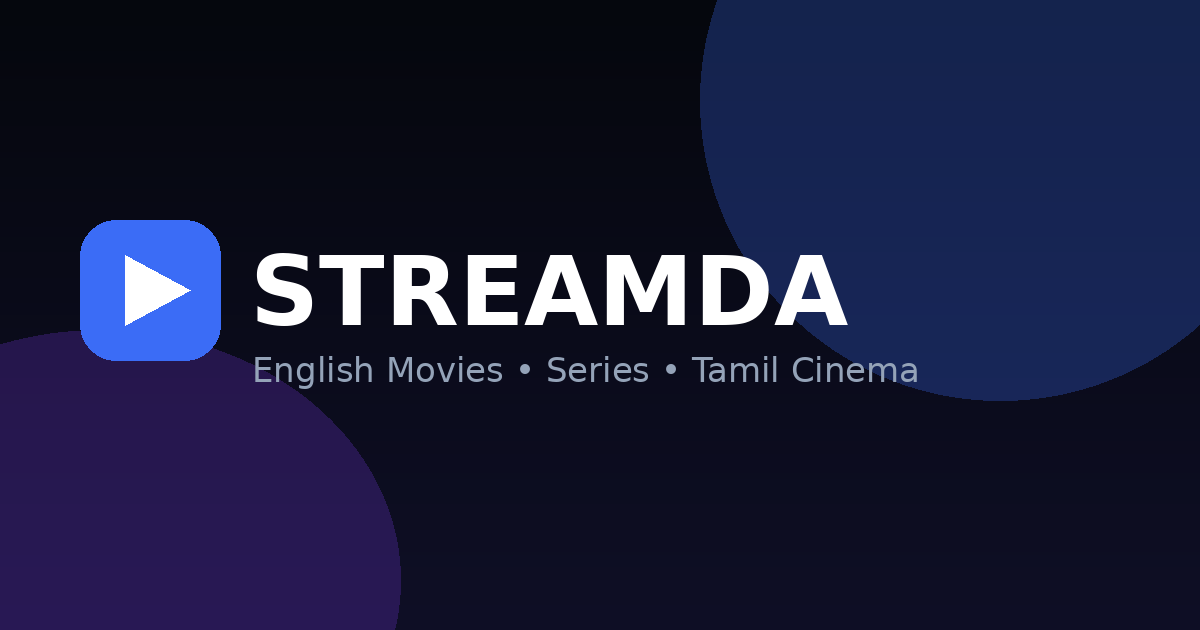
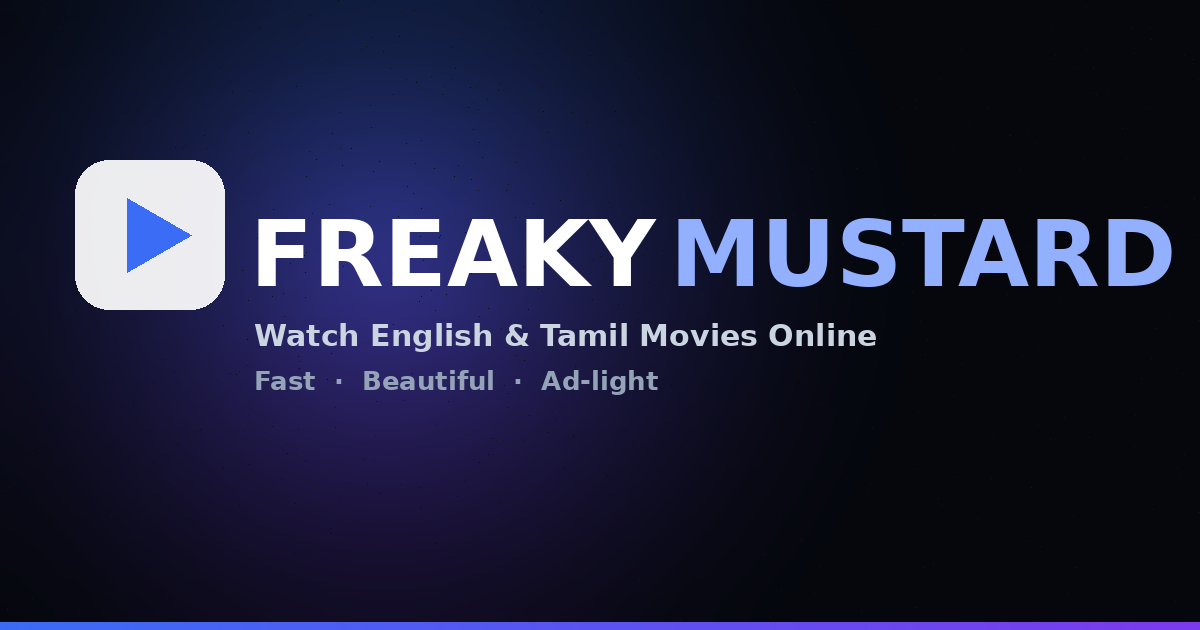
Rebrand Streamda -> FreakyMustard
- All visible labels, page titles, meta/OG/twitter tags, PWA manifest,
  service worker, package name, README.
- localStorage namespace streamda:v2: -> freakymustard:v2: with an
  automatic migration so existing watchlists/progress survive.
- Renamed api/streamdaProxy.js -> api/directProxy.js (VITE_STREAMDA_PROXY
  still honoured for backward compat; VITE_DIRECT_PROXY preferred).
- Regenerated og-cover.png with the new wordmark.
- Sidebar/hero wordmark now FREAKYMUSTARD.

diff --git a/src/pages/WatchEnglish.jsx b/src/pages/WatchEnglish.jsx
@@ -13,7 +13,7 @@ import {
   Loader2,
 } from 'lucide-react';
 import { getDetails } from '../api/englishApi';
-import { resolveDirect } from '../api/streamdaProxy';
+import { resolveDirect } from '../api/directProxy';
 import { useApp } from '../context/AppContext';
 import { usePageMeta } from '../hooks';
 import { cleanTitle } from '../lib/format';
@@ -28,7 +28,7 @@ import { ErrorState, EmptyState } from '../components/ui/States';
  * English watch page (movie or series).
  *
  * Playback sources, in priority order:
- *  1. Streamda ✦ Direct — our own ad-free HLS proxy (hls.js player, real
+ *  1. FreakyMustard ✦ Direct — our own ad-free HLS proxy (hls.js player, real
  *     progress tracking + resume). Resolved asynchronously; if it's slow or
  *     fails, embed servers keep working exactly as before.
  *  2. Third-party embed servers (VidLink, backend providers) — unchanged.
@@ -59,7 +59,7 @@ export default function WatchEnglish() {
   const [selectedSeason, setSelectedSeason] = useState(1);
   const [selectedEpisode, setSelectedEpisode] = useState(null);
 
-  // Streamda Direct (our own HLS proxy) resolution state.
+  // FreakyMustard Direct (our own HLS proxy) resolution state.
   const [directSources, setDirectSources] = useState([]);
   const [directLoading, setDirectLoading] = useState(false);
   const [directError, setDirectError] = useState(null);
@@ -68,7 +68,7 @@ export default function WatchEnglish() {
   // already playing — they can still pick Direct manually.
   const [directIsDefault, setDirectIsDefault] = useState(false);
 
-  usePageMeta(details ? `${cleanTitle(details.title)} — Streamda` : 'Watching — Streamda');
+  usePageMeta(details ? `${cleanTitle(details.title)} — FreakyMustard` : 'Watching — FreakyMustard');
 
   // Pop-up defence while a player is mounted.
   useEffect(() => installPopupGuard(), []);
@@ -115,7 +115,7 @@ export default function WatchEnglish() {
     // eslint-disable-next-line react-hooks/exhaustive-deps
   }, [type, id]);
 
-  // Resolve Streamda Direct HLS sources whenever the title/episode changes.
+  // Resolve FreakyMustard Direct HLS sources whenever the title/episode changes.
   // Runs independently of the embed server list; failures degrade gracefully
   // to the normal providers (directError is surfaced in the Direct panel).
   useEffect(() => {
@@ -203,7 +203,7 @@ export default function WatchEnglish() {
   );
 
   /**
-   * Unified server list: Streamda Direct (our ad-free HLS proxy) first,
+   * Unified server list: FreakyMustard Direct (our ad-free HLS proxy) first,
    * then every existing embed provider — nothing is removed.
    *
    * Each entry carries a stable `key` ("direct:0", "embed:1", …) so the
@@ -234,7 +234,7 @@ export default function WatchEnglish() {
     const direct = directSources.map((s, i) => ({
       key: `direct:${i}`,
       kind: 'direct',
-      name: directSources.length > 1 ? `Streamda ✦ ${i + 1}` : 'Streamda ✦ Direct',
+      name: directSources.length > 1 ? `FreakyMustard ✦ ${i + 1}` : 'FreakyMustard ✦ Direct',
       url: s.url,
     }));
     const embedServers = dedupedEmbeds.map((s, i) => ({
@@ -378,7 +378,7 @@ export default function WatchEnglish() {
                 hls
                 src={activeServer.url}
                 poster={details.backdrop || details.poster}
-                title={`${title} — Streamda Direct`}
+                title={`${title} — FreakyMustard Direct`}
                 initialTime={resumePosition}
                 onProgress={handleDirectProgress}
               />
@@ -450,12 +450,12 @@ export default function WatchEnglish() {
           {directLoading && (
             <p className="flex items-center gap-2 text-[11px] text-slate-500">
               <Loader2 size={12} className="animate-spin text-brand-400" />
-              Resolving ad-free Streamda Direct stream…
+              Resolving ad-free FreakyMustard Direct stream…
             </p>
           )}
           {!directLoading && directError && servers.some((s) => s.kind === 'embed') && (
             <p className="text-[11px] text-slate-500">
-              Streamda Direct unavailable ({directError}) — using an embed server instead.
+              FreakyMustard Direct unavailable ({directError}) — using an embed server instead.
             </p>
           )}
 
@@ -572,7 +572,7 @@ export default function WatchEnglish() {
             <div className="bg-ink-900/70 border border-ink-700/60 rounded-2xl p-6 text-center lg:sticky lg:top-6">
               <h3 className="text-base font-bold text-white mb-2">Tips</h3>
               <p className="text-xs text-slate-400 leading-relaxed">
-                <span className="text-brand-300 font-bold">Streamda ✦ Direct</span> is our own
+                <span className="text-brand-300 font-bold">FreakyMustard ✦ Direct</span> is our own
                 ad-free player — no pop-ups, no overlays, and it remembers your position. If it's
                 unavailable for a title, pick an embed server instead; pop-ups from those are
                 blocked automatically.

diff --git a/index.html b/index.html
@@ -5,8 +5,8 @@
     <meta name="viewport" content="width=device-width, initial-scale=1.0, viewport-fit=cover" />
 
     <!-- Primary SEO -->
-    <title>Streamda — Watch English & Tamil Movies Online</title>
-    <meta name="description" content="Streamda is a fast, beautiful streaming portal for the latest English movies & series and Tamil movies. Search, watch, and keep track of your watchlist." />
+    <title>FreakyMustard — Watch English & Tamil Movies Online</title>
+    <meta name="description" content="FreakyMustard is a fast, beautiful streaming portal for the latest English movies & series and Tamil movies. Search, watch, and keep track of your watchlist." />
     <meta name="keywords" content="stream movies, watch english movies, watch tamil movies, series, streaming portal" />
     <meta name="author" content="Abhishek" />
     <meta name="theme-color" content="#05070d" />
@@ -14,14 +14,14 @@
 
     <!-- Open Graph -->
     <meta property="og:type" content="website" />
-    <meta property="og:site_name" content="Streamda" />
-    <meta property="og:title" content="Streamda — Watch English & Tamil Movies Online" />
+    <meta property="og:site_name" content="FreakyMustard" />
+    <meta property="og:title" content="FreakyMustard — Watch English & Tamil Movies Online" />
     <meta property="og:description" content="A fast, beautiful streaming portal for the latest English movies & series and Tamil movies." />
     <meta property="og:image" content="/og-cover.png" />
 
     <!-- Twitter -->
     <meta name="twitter:card" content="summary_large_image" />
-    <meta name="twitter:title" content="Streamda — Watch English & Tamil Movies Online" />
+    <meta name="twitter:title" content="FreakyMustard — Watch English & Tamil Movies Online" />
     <meta name="twitter:description" content="A fast, beautiful streaming portal for the latest English movies & series and Tamil movies." />
     <meta name="twitter:image" content="/og-cover.png" />
 
@@ -47,12 +47,12 @@
         <div style="width:64px;height:64px;border-radius:18px;background:linear-gradient(135deg,#3b6cf6,#7c3aed);display:flex;align-items:center;justify-content:center;box-shadow:0 8px 40px rgba(59,108,246,.45)">
           <svg width="26" height="26" viewBox="0 0 24 24" fill="white"><path d="M8 5.5v13l11-6.5-11-6.5z"/></svg>
         </div>
-        <div style="color:#64748b;font-size:12px;font-weight:700;letter-spacing:.2em;text-transform:uppercase">Loading Streamda…</div>
+        <div style="color:#64748b;font-size:12px;font-weight:700;letter-spacing:.2em;text-transform:uppercase">Loading FreakyMustard…</div>
       </div>
     </div>
     <noscript>
       <div style="position:fixed;inset:0;display:flex;align-items:center;justify-content:center;background:#05070d;color:#e2e8f0;font-family:sans-serif;padding:24px;text-align:center">
-        Streamda requires JavaScript to stream content. Please enable JavaScript and reload.
+        FreakyMustard requires JavaScript to stream content. Please enable JavaScript and reload.
       </div>
     </noscript>
     <script type="module" src="/src/main.jsx"></script>

diff --git a/src/lib/storage.js b/src/lib/storage.js
@@ -3,7 +3,11 @@
  * Never throws (private mode / quota / SSR) and namespaces all keys.
  */
 
-const NS = 'streamda:v2:';
+const NS = 'freakymustard:v2:';
+
+// Previous namespace (the app was branded "Streamda" before). Kept so we can
+// migrate existing users' data forward without losing watchlists/progress.
+const LEGACY_NS = 'streamda:v2:';
 
 export const storage = {
   get(key, fallback = null) {
@@ -34,8 +38,10 @@ export const storage = {
 };
 
 /**
- * Migrate v1 keys (streamda_watchlist / streamda_continue) into v2
- * so existing users keep their data after the overhaul.
+ * Migrate legacy keys into the current namespace so existing users keep
+ * their data across rebrands/overhauls:
+ *  - v1 keys: streamda_watchlist / streamda_continue (pre-v2 overhaul)
+ *  - old v2 namespace: streamda:v2:* -> freakymustard:v2:* (rebrand)
  */
 export function migrateV1() {
   try {
@@ -48,6 +54,25 @@ export function migrateV1() {
     if (legacyCont && !localStorage.getItem(NS + 'continue')) {
       storage.set('continue', JSON.parse(legacyCont));
       localStorage.removeItem('streamda_continue');
+    }
+  } catch {
+    /* best effort */
+  }
+
+  // Rebrand migration: copy every streamda:v2:* key into the new namespace
+  // (only if the new key doesn't exist yet), then drop the old keys.
+  try {
+    const toMigrate = [];
+    for (let i = 0; i < localStorage.length; i += 1) {
+      const k = localStorage.key(i);
+      if (k && k.startsWith(LEGACY_NS)) toMigrate.push(k);
+    }
+    for (const k of toMigrate) {
+      const newKey = NS + k.slice(LEGACY_NS.length);
+      if (localStorage.getItem(newKey) === null) {
+        localStorage.setItem(newKey, localStorage.getItem(k));
+      }
+      localStorage.removeItem(k);
     }
   } catch {
     /* best effort */

diff --git a/src/api/directProxy.js b/src/api/directProxy.js
@@ -1,7 +1,7 @@
 import { fetchJson } from '../lib/http';
 
 /**
- * Streamda Direct — our own ad-free HLS resolution proxy.
+ * FreakyMustard Direct — our own ad-free HLS resolution proxy.
  *
  * The proxy (a FastAPI service on Hugging Face Spaces) resolves clean HLS
  * streams from the VidSrc API and relays every byte through a signed,
@@ -9,10 +9,13 @@ import { fetchJson } from '../lib/http';
  * page, and the CDN's Cloudflare WAF (which 403s any request carrying an
  * Origin/Referer header) is satisfied because the proxy sends neither.
  *
- * Override the base with VITE_STREAMDA_PROXY if you self-host the proxy.
+ * Override the base with VITE_DIRECT_PROXY if you self-host the proxy
+ * (VITE_STREAMDA_PROXY is still honoured for backward compatibility).
  */
 const PROXY_BASE = (
-  import.meta.env.VITE_STREAMDA_PROXY || 'https://freakymustard67-potato.hf.space'
+  import.meta.env.VITE_DIRECT_PROXY ||
+  import.meta.env.VITE_STREAMDA_PROXY ||
+  'https://freakymustard67-potato.hf.space'
 ).replace(/\/$/, '');
 
 /**

diff --git a/src/pages/Profile.jsx b/src/pages/Profile.jsx
@@ -11,7 +11,7 @@ import Badge from '../components/ui/Badge';
  * My Space: profile switcher, honest stats, continue watching + watchlist.
  */
 export default function Profile() {
-  usePageMeta('My Space — Streamda', 'Manage profiles, watchlist and continue watching.');
+  usePageMeta('My Space — FreakyMustard', 'Manage profiles, watchlist and continue watching.');
 
   const { profiles, activeProfile, switchProfile, watchlist, continueWatching, showToast } =
     useApp();
@@ -186,7 +186,7 @@ export default function Profile() {
             LOCAL
           </Badge>
           <p className="text-xs text-slate-500 leading-relaxed">
-            Streamda stores everything in your browser (localStorage) — no account, no tracking.
+            FreakyMustard stores everything in your browser (localStorage) — no account, no tracking.
             Clearing site data will reset your watchlist and history.
           </p>
         </div>

diff --git a/src/test/context.test.jsx b/src/test/context.test.jsx
@@ -74,7 +74,7 @@ describe('AppContext', () => {
     await user.click(screen.getByText('progress-null'));
     expect(screen.getByTestId('cw-count')).toHaveTextContent('1');
     // progress should still be 40 in storage
-    const stored = JSON.parse(localStorage.getItem('streamda:v2:continue'));
+    const stored = JSON.parse(localStorage.getItem('freakymustard:v2:continue'));
     expect(stored[0].progress).toBe(40);
   });
 
@@ -83,7 +83,7 @@ describe('AppContext', () => {
     setup();
     await user.click(screen.getByText('add'));
     await waitFor(() => {
-      expect(localStorage.getItem('streamda:v2:watchlist')).toContain('tt1');
+      expect(localStorage.getItem('freakymustard:v2:watchlist')).toContain('tt1');
     });
   });
 

diff --git a/src/lib/popupGuard.js b/src/lib/popupGuard.js
@@ -31,7 +31,7 @@ export function installPopupGuard() {
     try {
       const host = url ? new URL(url, window.location.href).host : '';
       if (!TRUSTED_HOSTS.has(host)) {
-        console.info('[streamda] blocked pop-up:', url);
+        console.info('[freakymustard] blocked pop-up:', url);
         return null;
       }
     } catch {
@@ -51,7 +51,7 @@ export function installPopupGuard() {
       if (!TRUSTED_HOSTS.has(host)) {
         e.preventDefault();
         e.stopPropagation();
-        console.info('[streamda] blocked new-tab navigation:', anchor.href);
+        console.info('[freakymustard] blocked new-tab navigation:', anchor.href);
       }
     } catch {
       /* ignore */

diff --git a/src/components/HeroBanner.jsx b/src/components/HeroBanner.jsx
@@ -36,7 +36,7 @@ export default function HeroBanner({ movies = [], type = 'movies' }) {
       <div className="relative h-[55vh] md:h-[78vh] w-full bg-gradient-to-b from-ink-900 to-ink-950 flex items-center justify-center">
         <div className="text-center px-6">
           <h1 className="text-3xl md:text-5xl font-black font-display text-gradient-brand mb-3">
-            STREAMDA
+            FREAKYMUSTARD
           </h1>
           <p className="text-slate-400 text-sm md:text-base max-w-md mx-auto">
             English blockbusters, binge-worthy series and the latest Tamil cinema — all in one

diff --git a/public/sw.js b/public/sw.js
@@ -1,4 +1,4 @@
-/* Streamda service worker — app-shell caching for instant repeat loads.
+/* FreakyMustard service worker — app-shell caching for instant repeat loads.
  * Strategy:
  *  - Precache the shell on install.
  *  - Navigations: network-first, falling back to cached shell (offline page).
@@ -6,7 +6,7 @@
  *  - API calls: never cached here (the app has its own TTL cache).
  */
 
-const VERSION = 'streamda-v2-1';
+const VERSION = 'freakymustard-v2-1';
 const SHELL_CACHE = `${VERSION}-shell`;
 const ASSET_CACHE = `${VERSION}-assets`;
 

diff --git a/src/pages/Search.jsx b/src/pages/Search.jsx
@@ -26,7 +26,7 @@ const TRENDING_SUGGESTIONS = [
  * Debounced live search + URL sync (?q=) + recent searches.
  */
 export default function SearchPage() {
-  usePageMeta('Search — Streamda', 'Search English movies, series and Tamil movies.');
+  usePageMeta('Search — FreakyMustard', 'Search English movies, series and Tamil movies.');
 
   const [searchParams, setSearchParams] = useSearchParams();
   const { recentSearches, addRecentSearch, clearRecentSearches } = useApp();

diff --git a/src/components/Sidebar.jsx b/src/components/Sidebar.jsx
@@ -24,7 +24,7 @@ function Logo({ expanded }) {
       <span
         className={`text-lg font-black tracking-wide font-display whitespace-nowrap transition-all duration-200 ${expanded ? 'opacity-100 translate-x-0' : 'opacity-0 -translate-x-2 w-0'}`}
       >
-        STREAM<span className="text-gradient-brand">DA</span>
+        FREAKY<span className="text-gradient-brand">MUSTARD</span>
       </span>
     </div>
   );

diff --git a/src/pages/EnglishPortal.jsx b/src/pages/EnglishPortal.jsx
@@ -17,7 +17,7 @@ import { Loader2, ChevronDown } from 'lucide-react';
 export default function EnglishPortal({ type = 'movies' }) {
   const isSeries = type === 'series';
   usePageMeta(
-    `English ${isSeries ? 'Series' : 'Movies'} — Streamda`,
+    `English ${isSeries ? 'Series' : 'Movies'} — FreakyMustard`,
     `Browse popular and top-rated English ${isSeries ? 'series' : 'movies'} by genre.`
   );
 
